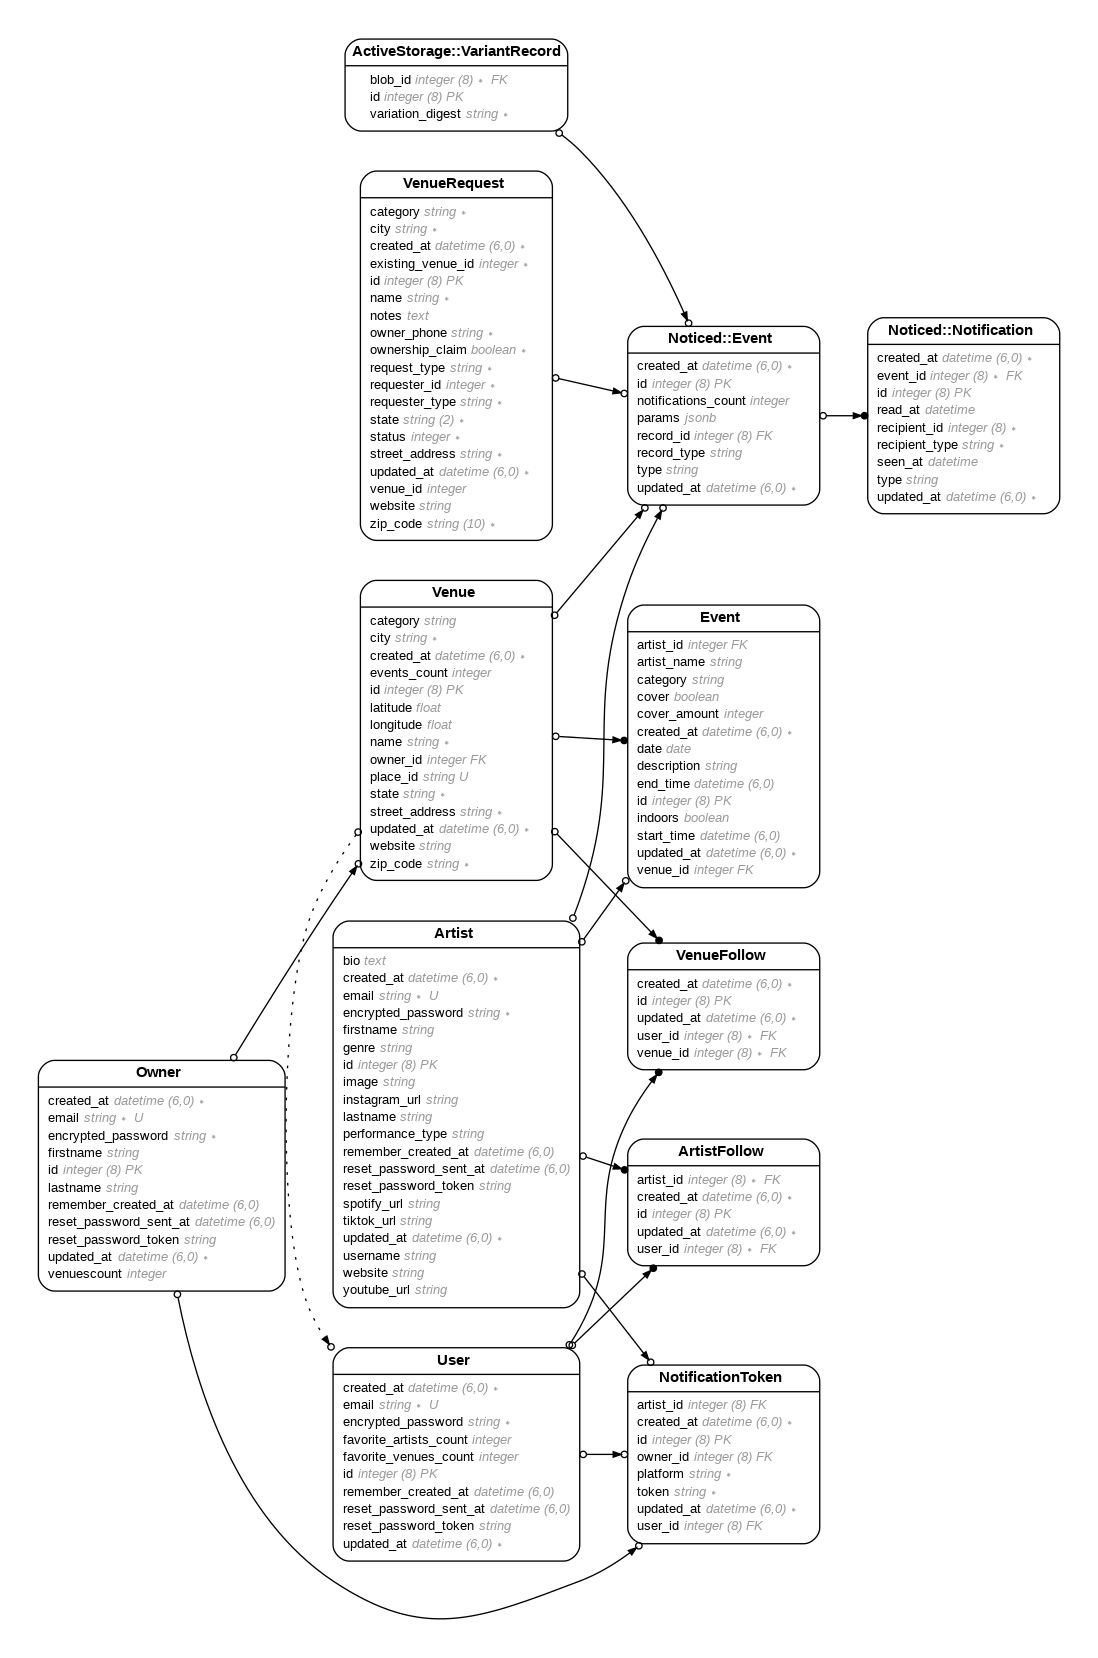
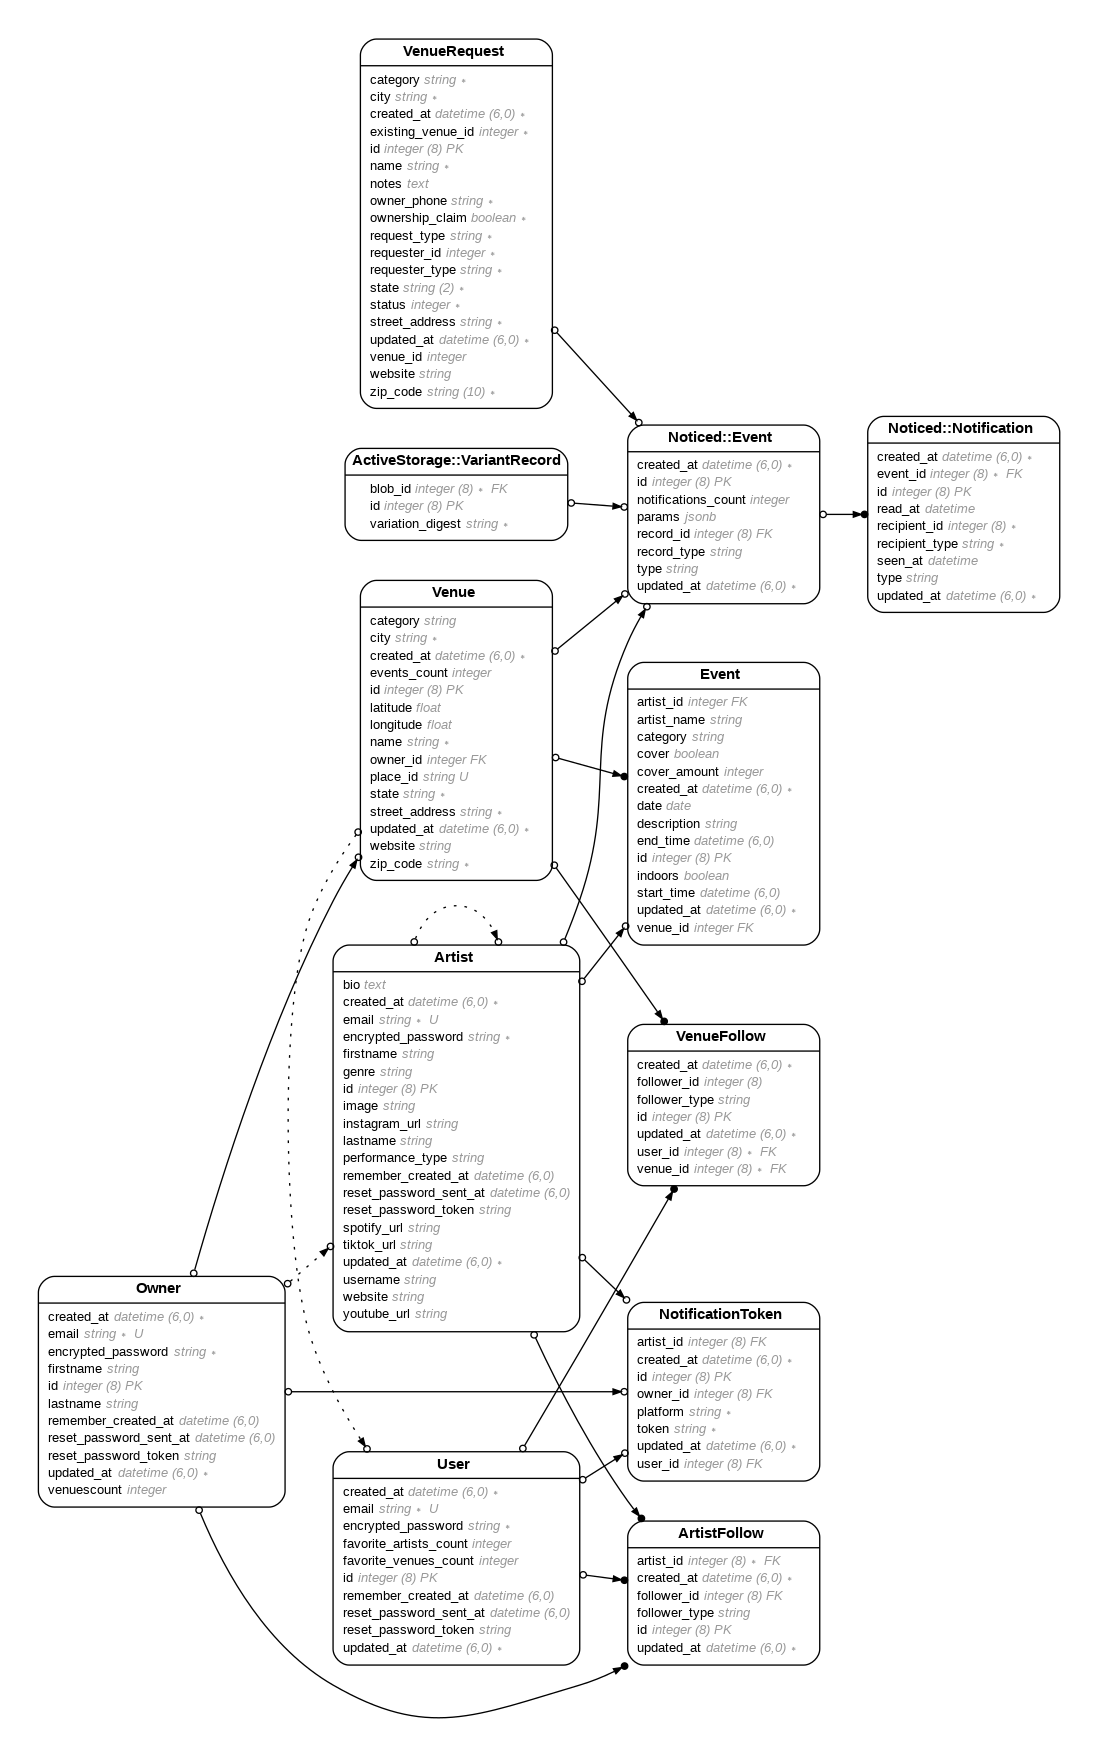
NOTFICIATIONS BROKEN. updated artist and venue follows to be polymorphic.

diff --git a/db/schema.rb b/db/schema.rb
@@ -10,7 +10,7 @@
 #
 # It's strongly recommended that you check this file into your version control system.
 
-ActiveRecord::Schema[8.0].define(version: 2025_08_08_203244) do
+ActiveRecord::Schema[8.0].define(version: 2025_08_12_231246) do
   # These are extensions that must be enabled in order to support this database
   enable_extension "pg_catalog.plpgsql"
 
@@ -43,12 +43,13 @@ ActiveRecord::Schema[8.0].define(version: 2025_08_08_203244) do
   end
 
   create_table "artist_follows", force: :cascade do |t|
-    t.bigint "user_id", null: false
     t.bigint "artist_id", null: false
     t.datetime "created_at", null: false
     t.datetime "updated_at", null: false
+    t.string "follower_type"
+    t.bigint "follower_id"
     t.index ["artist_id"], name: "index_artist_follows_on_artist_id"
-    t.index ["user_id"], name: "index_artist_follows_on_user_id"
+    t.index ["follower_type", "follower_id"], name: "index_artist_follows_on_follower_type_and_follower_id"
   end
 
   create_table "artists", force: :cascade do |t|
@@ -309,11 +310,12 @@ ActiveRecord::Schema[8.0].define(version: 2025_08_08_203244) do
   end
 
   create_table "venue_follows", force: :cascade do |t|
-    t.bigint "user_id", null: false
     t.bigint "venue_id", null: false
     t.datetime "created_at", null: false
     t.datetime "updated_at", null: false
-    t.index ["user_id"], name: "index_venue_follows_on_user_id"
+    t.string "follower_type"
+    t.bigint "follower_id"
+    t.index ["follower_type", "follower_id"], name: "index_venue_follows_on_follower_type_and_follower_id"
     t.index ["venue_id"], name: "index_venue_follows_on_venue_id"
   end
 
@@ -363,7 +365,6 @@ ActiveRecord::Schema[8.0].define(version: 2025_08_08_203244) do
   add_foreign_key "active_storage_attachments", "active_storage_blobs", column: "blob_id"
   add_foreign_key "active_storage_variant_records", "active_storage_blobs", column: "blob_id"
   add_foreign_key "artist_follows", "artists"
-  add_foreign_key "artist_follows", "users"
   add_foreign_key "follows", "artists"
   add_foreign_key "follows", "users"
   add_foreign_key "notification_tokens", "artists"
@@ -375,6 +376,5 @@ ActiveRecord::Schema[8.0].define(version: 2025_08_08_203244) do
   add_foreign_key "solid_queue_ready_executions", "solid_queue_jobs", column: "job_id", on_delete: :cascade
   add_foreign_key "solid_queue_recurring_executions", "solid_queue_jobs", column: "job_id", on_delete: :cascade
   add_foreign_key "solid_queue_scheduled_executions", "solid_queue_jobs", column: "job_id", on_delete: :cascade
-  add_foreign_key "venue_follows", "users"
   add_foreign_key "venue_follows", "venues"
 end

diff --git a/app/controllers/artist_follows_controller.rb b/app/controllers/artist_follows_controller.rb
@@ -1,21 +1,19 @@
 class ArtistFollowsController < ApplicationController
-  before_action :authenticate_user!
+  before_action :authenticate_any_user!
   before_action :set_artist_for_create, only: [:create]
   before_action :set_artist_for_destroy, only: [:destroy]
 
   def create
-    current_user.artist_follows.create!(artist: @artist)
+    current_follower.artist_follows.create!(artist: @artist)
 
     respond_to do |format|
       format.turbo_stream  # renders create.turbo_stream.erb
       format.html { redirect_to @artist }
-      #Turbo::StreamsChannel.broadcast_refresh_to "elephant"
-
     end
   end
 
   def destroy
-    current_user.artist_follows.find_by(artist: @artist)&.destroy
+    current_follower.artist_follows.find_by(artist: @artist)&.destroy
 
     respond_to do |format|
       format.turbo_stream  # renders destroy.turbo_stream.erb
@@ -24,6 +22,16 @@ class ArtistFollowsController < ApplicationController
   end
 
   private
+
+  def authenticate_any_user!
+    unless user_signed_in? || owner_signed_in? || artist_signed_in?
+      redirect_to new_user_session_path
+    end
+  end
+
+  def current_follower
+    current_user || current_owner || current_artist
+  end
 
   def set_artist_for_create
     @artist = Artist.find(params[:artist_id])

diff --git a/app/controllers/venue_follows_controller.rb b/app/controllers/venue_follows_controller.rb
@@ -1,20 +1,19 @@
 class VenueFollowsController < ApplicationController
+  before_action :authenticate_any_user!
   before_action :set_venue_for_create, only: [:create]
   before_action :set_venue_for_destroy, only: [:destroy]
 
   def create
-    current_user.venue_follows.create!(venue: @venue)
+    current_follower.venue_follows.create!(venue: @venue)
 
     respond_to do |format|
       format.turbo_stream  # renders create.turbo_stream.erb
       format.html { redirect_to @venue }
-      # Turbo::StreamsChannel.broadcast_refresh_to "giraffe"
-
     end
   end
 
   def destroy
-    current_user.venue_follows.find_by(venue: @venue)&.destroy
+    current_follower.venue_follows.find_by(venue: @venue)&.destroy
 
     respond_to do |format|
       format.turbo_stream  # renders destroy.turbo_stream.erb
@@ -23,6 +22,16 @@ class VenueFollowsController < ApplicationController
   end
 
   private
+
+  def authenticate_any_user!
+    unless user_signed_in? || owner_signed_in? || artist_signed_in?
+      redirect_to new_user_session_path
+    end
+  end
+
+  def current_follower
+    current_user || current_owner || current_artist
+  end
 
   def set_venue_for_create
     @venue = Venue.find(params[:venue_id])

diff --git a/db/migrate/20250812230207_change_artist_follows_to_polymorphic.rb b/db/migrate/20250812230207_change_artist_follows_to_polymorphic.rb
@@ -1,0 +1,32 @@
+class ChangeArtistFollowsToPolymorphic < ActiveRecord::Migration[8.0]
+  def up
+    # Add polymorphic columns
+    add_column :artist_follows, :follower_type, :string
+    add_column :artist_follows, :follower_id, :bigint
+    
+    # Migrate existing data
+    ArtistFollow.reset_column_information
+    ArtistFollow.where(follower_type: nil).update_all(follower_type: 'User')
+    ArtistFollow.where(follower_id: nil).each do |follow|
+      follow.update!(follower_id: follow.user_id)
+    end
+    
+    # Add index and remove old columns
+    add_index :artist_follows, [:follower_type, :follower_id]
+    remove_column :artist_follows, :user_id
+    remove_index :artist_follows, :index_artist_follows_on_user_id if index_exists?(:artist_follows, :user_id)
+  end
+
+  def down
+    add_column :artist_follows, :user_id, :bigint
+    
+    ArtistFollow.reset_column_information
+    ArtistFollow.where(follower_type: 'User').each do |follow|
+      follow.update!(user_id: follow.follower_id)
+    end
+    
+    remove_column :artist_follows, :follower_type
+    remove_column :artist_follows, :follower_id
+    add_index :artist_follows, :user_id
+  end
+end

diff --git a/app/models/artist_follow.rb b/app/models/artist_follow.rb
@@ -2,25 +2,25 @@
 #
 # Table name: artist_follows
 #
-#  id         :bigint           not null, primary key
-#  created_at :datetime         not null
-#  updated_at :datetime         not null
-#  artist_id  :bigint           not null
-#  user_id    :bigint           not null
+#  id            :bigint           not null, primary key
+#  follower_type :string
+#  created_at    :datetime         not null
+#  updated_at    :datetime         not null
+#  artist_id     :bigint           not null
+#  follower_id   :bigint
 #
 # Indexes
 #
-#  index_artist_follows_on_artist_id  (artist_id)
-#  index_artist_follows_on_user_id    (user_id)
+#  index_artist_follows_on_artist_id                      (artist_id)
+#  index_artist_follows_on_follower_type_and_follower_id  (follower_type,follower_id)
 #
 # Foreign Keys
 #
 #  fk_rails_...  (artist_id => artists.id)
-#  fk_rails_...  (user_id => users.id)
 #
 class ArtistFollow < ApplicationRecord
-  belongs_to :user
+  belongs_to :follower, polymorphic: true
   belongs_to :artist
 
-  validates :user_id, uniqueness: { scope: :artist_id }
+  validates :follower_id, uniqueness: { scope: [:artist_id, :follower_type] }
 end

diff --git a/db/migrate/20250812231246_change_venue_follows_to_polymorphic.rb b/db/migrate/20250812231246_change_venue_follows_to_polymorphic.rb
@@ -1,0 +1,32 @@
+class ChangeVenueFollowsToPolymorphic < ActiveRecord::Migration[8.0]
+  def up
+    # Add polymorphic columns
+    add_column :venue_follows, :follower_type, :string
+    add_column :venue_follows, :follower_id, :bigint
+    
+    # Migrate existing data
+    VenueFollow.reset_column_information
+    VenueFollow.where(follower_type: nil).update_all(follower_type: 'User')
+    VenueFollow.where(follower_id: nil).each do |follow|
+      follow.update!(follower_id: follow.user_id)
+    end
+    
+    # Add index and remove old columns
+    add_index :venue_follows, [:follower_type, :follower_id]
+    remove_column :venue_follows, :user_id
+    remove_index :venue_follows, :index_venue_follows_on_user_id if index_exists?(:venue_follows, :user_id)
+  end
+
+  def down
+    add_column :venue_follows, :user_id, :bigint
+    
+    VenueFollow.reset_column_information
+    VenueFollow.where(follower_type: 'User').each do |follow|
+      follow.update!(user_id: follow.follower_id)
+    end
+    
+    remove_column :venue_follows, :follower_type
+    remove_column :venue_follows, :follower_id
+    add_index :venue_follows, :user_id
+  end
+end

diff --git a/app/models/venue_follow.rb b/app/models/venue_follow.rb
@@ -2,24 +2,25 @@
 #
 # Table name: venue_follows
 #
-#  id         :bigint           not null, primary key
-#  created_at :datetime         not null
-#  updated_at :datetime         not null
-#  user_id    :bigint           not null
-#  venue_id   :bigint           not null
+#  id            :bigint           not null, primary key
+#  follower_type :string
+#  created_at    :datetime         not null
+#  updated_at    :datetime         not null
+#  follower_id   :bigint
+#  venue_id      :bigint           not null
 #
 # Indexes
 #
-#  index_venue_follows_on_user_id   (user_id)
-#  index_venue_follows_on_venue_id  (venue_id)
+#  index_venue_follows_on_follower_type_and_follower_id  (follower_type,follower_id)
+#  index_venue_follows_on_venue_id                       (venue_id)
 #
 # Foreign Keys
 #
-#  fk_rails_...  (user_id => users.id)
 #  fk_rails_...  (venue_id => venues.id)
 #
 class VenueFollow < ApplicationRecord
-  belongs_to :user
+  belongs_to :follower, polymorphic: true
   belongs_to :venue
-  validates :user_id, uniqueness: { scope: :venue_id }
+
+  validates :follower_id, uniqueness: { scope: [:venue_id, :follower_type] }
 end

diff --git a/app/models/artist.rb b/app/models/artist.rb
@@ -40,9 +40,13 @@ class Artist < ApplicationRecord
   has_many :events, foreign_key: "artist_id"
   has_many :venues, through: :events
   has_many :artist_follows
-  has_many :followers, through: :artist_follows, source: :user
+  has_many :followers, through: :artist_follows, source: :follower
   has_one_attached :image
   has_many :notification_tokens
+  has_many :artist_follows, as: :follower, dependent: :destroy
+  has_many :followed_artists, through: :artist_follows, source: :artist
+  has_many :venue_follows, as: :follower, dependent: :destroy
+  has_many :followed_venues, through: :venue_follows, source: :venue
 
 
   # Constants

diff --git a/app/models/user.rb b/app/models/user.rb
@@ -26,9 +26,9 @@ class User < ApplicationRecord
   devise :database_authenticatable, :registerable,
          :recoverable, :rememberable, :validatable
 
-  has_many :artist_follows, dependent: :destroy
+  has_many :artist_follows, as: :follower, dependent: :destroy
   has_many :followed_artists, through: :artist_follows, source: :artist
-  has_many :venue_follows, dependent: :destroy
+  has_many :venue_follows, as: :follower, dependent: :destroy
   has_many :followed_venues, through: :venue_follows, source: :venue
   has_many :notification_tokens
 

diff --git a/app/models/owner.rb b/app/models/owner.rb
@@ -29,6 +29,10 @@ class Owner < ApplicationRecord
 
   has_many :venues
   has_many :notification_tokens
+  has_many :artist_follows, as: :follower, dependent: :destroy
+  has_many :followed_artists, through: :artist_follows, source: :artist
+  has_many :venue_follows, as: :follower, dependent: :destroy
+  has_many :followed_venues, through: :venue_follows, source: :venue
 
 
   def password_complexity

diff --git a/app/models/venue.rb b/app/models/venue.rb
@@ -25,8 +25,8 @@
 class Venue < ApplicationRecord
   belongs_to :owner, optional: true
   has_many :events
-  has_many :venue_follows
-  has_many :followers, through: :venue_follows, source: :user
+  has_many :venue_follows, dependent: :destroy
+  has_many :followers, through: :venue_follows, source: :follower
 
   has_one_attached :image
 

diff --git a/app/controllers/artists_controller.rb b/app/controllers/artists_controller.rb
@@ -44,6 +44,8 @@ class ArtistsController < ApplicationController
     @artist = current_artist
     @upcoming_events = @artist.upcoming_events
     @past_events = @artist.past_events
+    @favorite_artists = @artist.followed_artists
+    @favorite_venues = @artist.followed_venues
   end
 
   def promo_flyer
